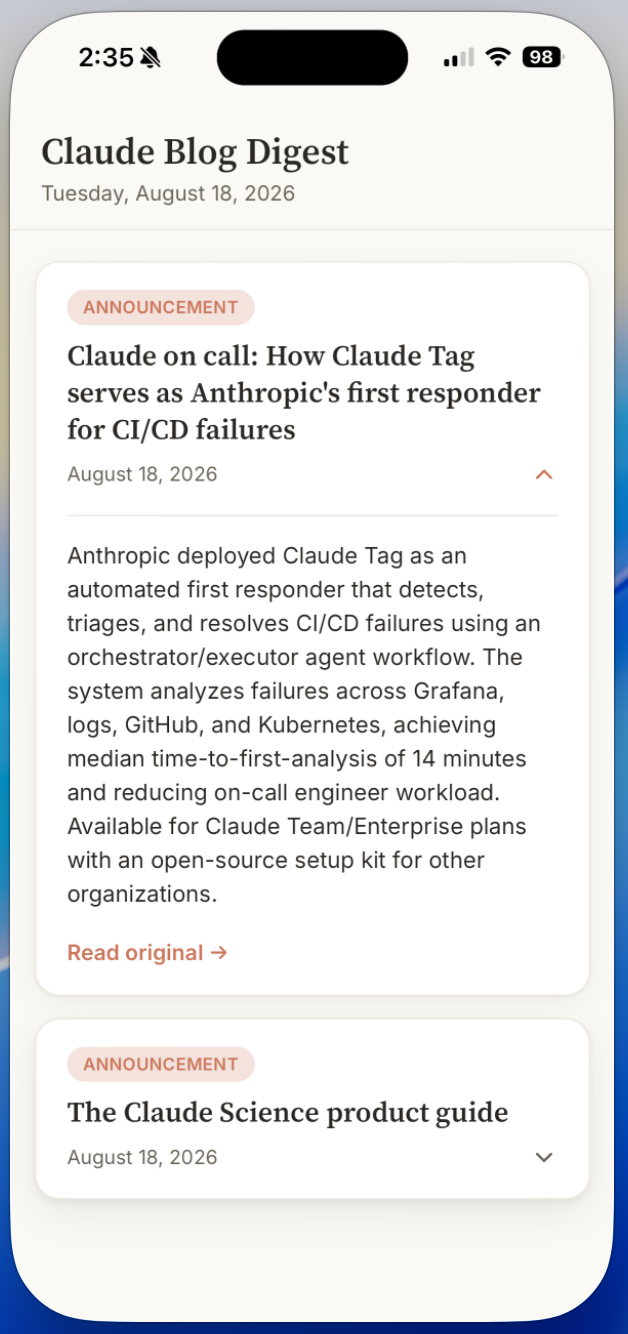
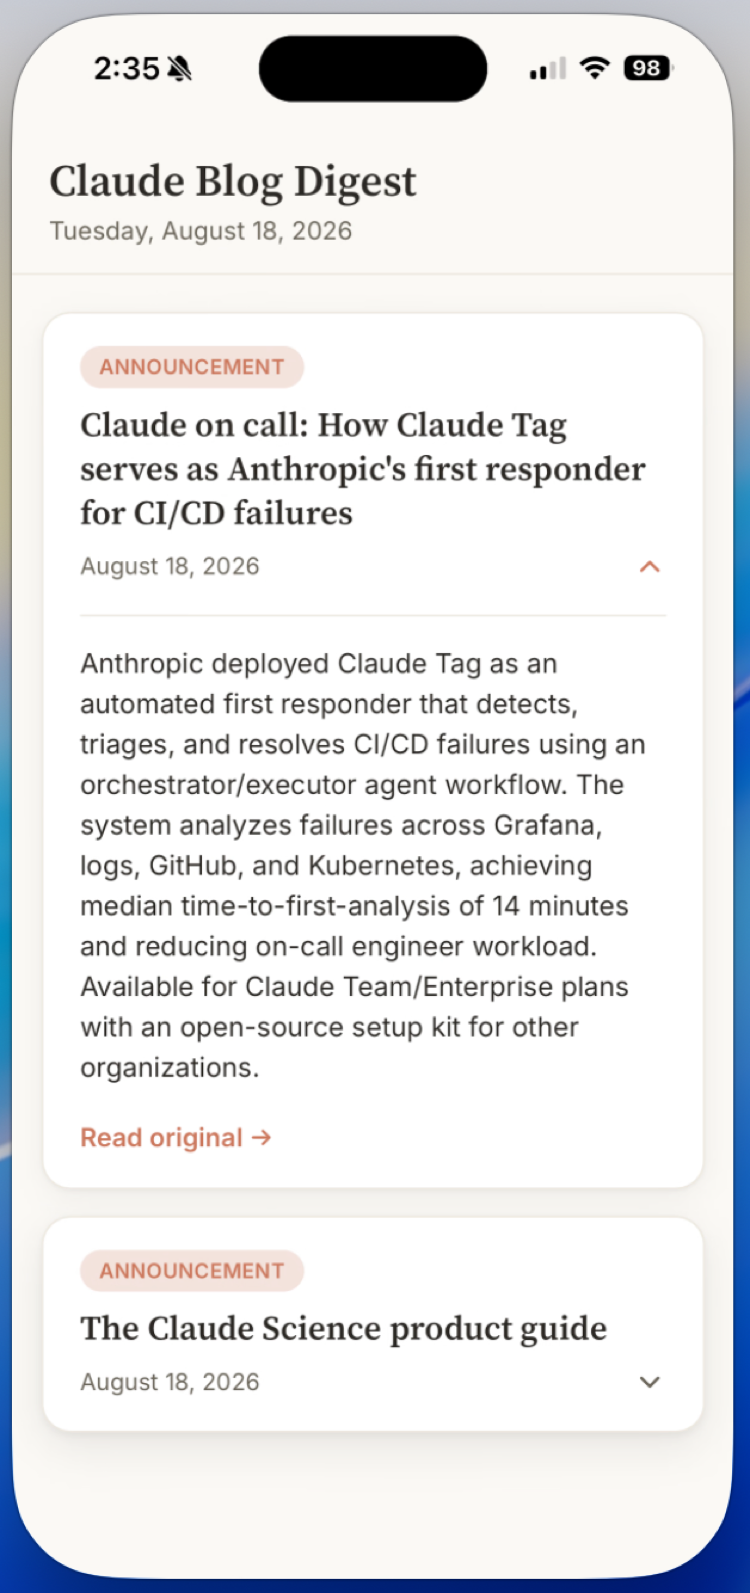
Resize screenshots to consistent 750px width, use table layout in README
Resamples both screenshots to exactly 750px wide (preserving aspect
ratio) via sips --resampleWidth, since sips -Z constrains the longest
edge, which for these portrait screenshots would match height instead.
README now uses an HTML table with width="100%" cells for a responsive
side-by-side layout instead of hardcoded pixel widths.

diff --git a/README.md b/README.md
@@ -28,10 +28,12 @@ The pipeline runs nightly via a GitHub Actions workflow. The resulting `data/art
 
 ## Screenshots
 
-<p align="center">
-  <img src="docs/screenshots/card-list.png" width="300" alt="Digest card list view" />
-  <img src="docs/screenshots/card-expanded.png" width="300" alt="Expanded article card" />
-</p>
+<table>
+<tr>
+<td><img src="docs/screenshots/card-list.png" width="100%" /></td>
+<td><img src="docs/screenshots/card-expanded.png" width="100%" /></td>
+</tr>
+</table>
 
 Left: the daily digest card list. Right: an expanded card showing the
 summary and source link.
